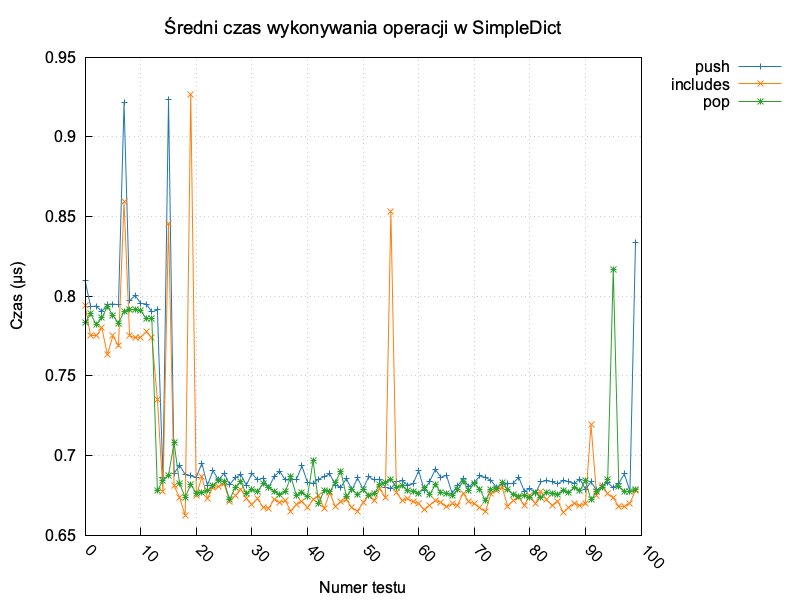
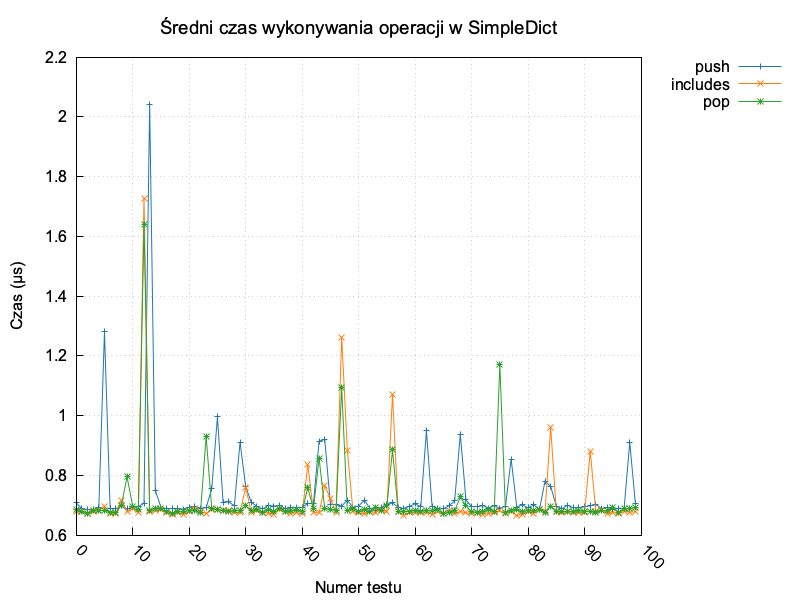
z2

diff --git a/zestawy/zestaw1/dictionarySimple/main.cpp b/zestawy/zestaw1/dictionarySimple/main.cpp
@@ -34,7 +34,7 @@ void test_operations()
     for (int i = 0; i < NUM_REPEATS; i++)
     {
         SimpleDict A;
-        for (int j = 0; j < 5; j++)
+        for (int j = 0; j < i; j++)
         {
             A.push("Element " + std::to_string(j));
         }
@@ -59,9 +59,32 @@ void test_operations()
     results_file.close();
 }
 
+void test_correctness()
+{
+    SimpleDict A;
+    std::cout << "Testing correctness of operations:\n";
+    A.display();
+    A.push("Test Element");
+    std::cout << "Push\n";
+    A.display();
+    if (A.includes("Test Element"))
+        std::cout << "Push and Includes: PASS\n";
+    else
+        std::cout << "Push and Includes: FAIL\n";
+
+    A.pop("Test Element");
+    std::cout << "Pop\n";
+    A.display();
+    if (!A.includes("Test Element"))
+        std::cout << "Pop: PASS\n";
+    else
+        std::cout << "Pop: FAIL\n";
+}
+
 int main()
 {
     test_operations();
     system("gnuplot plot.gnu");
+    test_correctness();
     return 0;
 }
